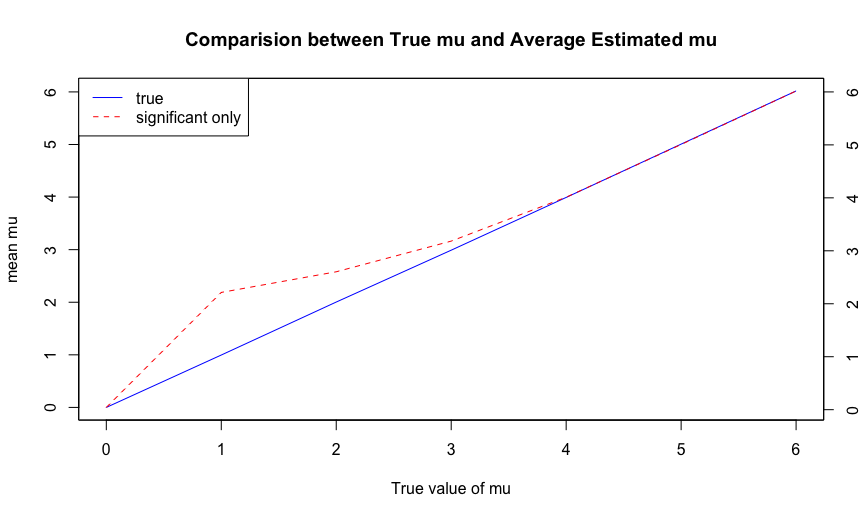
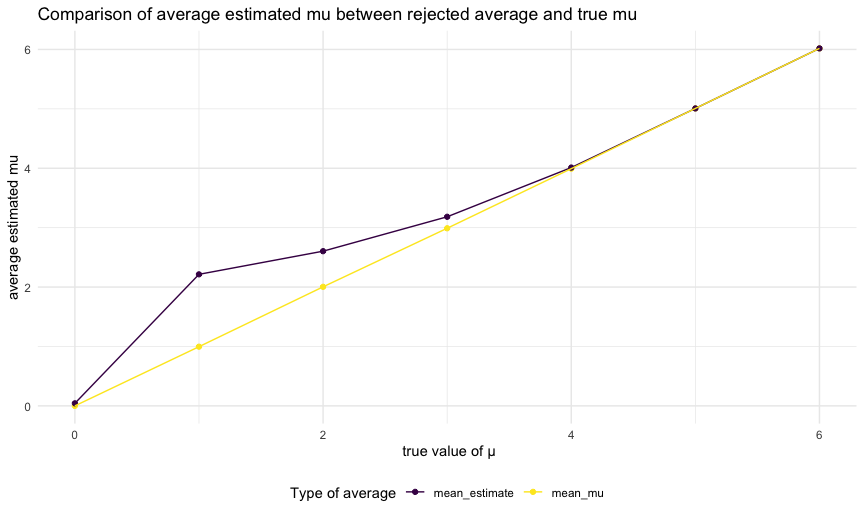
comment

diff --git a/p8105_hw5_xy2476.md b/p8105_hw5_xy2476.md
@@ -1,11 +1,15 @@
 Homework 5 solutions
 ================
 Rio Yan
-2020-11-17
+2020-11-18
 
 ## Problem 1
 
-Describe the raw <data:we> have 51 cities
+**Describe the raw data:** The data included the location of the
+killing, whether an arrest was made and, in most cases, basic
+demographic information about each victim in 50 large U.S. cities. There
+was one data entered error, Tulsa\_AL, and got cleaned out during the
+cleaning process.
 
 Read in the data.
 
@@ -377,9 +381,15 @@ path_df_graph %>%
 
 <img src="p8105_hw5_xy2476_files/figure-gfm/unnamed-chunk-8-1.png" width="90%" />
 
-Comment on the differences between groups: overall the graph shows that
-experimental group has higher value than control group, both from the
-start and in the end.
+**Comment on the differences between groups:**
+
+The graph shows that the experiment group’s cluster is higher than the
+control one, indicating that the experimental group overall has higher
+values than control group. In addition, the experiment group seems to
+have a positive association between week counts and values, as the week
+progress, the higher the value the subjects have. However, the control
+group doesn’t seem to have an association between week number and their
+value.
 
 ## Problem 3
 
@@ -449,11 +459,13 @@ prop_data1 %>%
 ```
 
 <img src="p8105_hw5_xy2476_files/figure-gfm/unnamed-chunk-10-1.png" width="90%" />
-Describe the association between effect size and power:
 
-Make a second plot (or overlay on the first) the average estimate of μ̂
-only in samples for which the null was rejected on the y axis and the
-true value of μ on the x axis.
+**Describe the association between effect size and power:** The graph
+shows that as the true value of mu increases, the power of the test
+increases and eventfully reaches 1, meaning there is a positive
+association between true value of mu and the power of the test. However,
+when the true value is the same as the null(0), there is still some
+chance that the null will be rejected, this is due to randomness.
 
 ``` r
 mean_table = 
@@ -469,7 +481,10 @@ mean_table =
 plot_1 = 
   mean_table %>% 
   ggplot(aes(x = mu_list, y = mean_mu)) + 
-  geom_point() + geom_line()
+  geom_point() + geom_line() +
+  labs(title = "Association between true value of mu and average estimate of mu",
+       x = " true value of μ",
+       y = "Average estimate of mu")
 
 reject_mean = 
   reject_table %>% 
@@ -487,12 +502,14 @@ reject_mean =
 plot_2 =
   reject_mean %>% 
   ggplot(aes(x = mu_list, y = mean_estimate)) +
-  geom_point() + geom_line()
+  geom_point() + geom_line() +
+  labs(title = "Association between true value of mu and rejected average estimate of mu",
+       x = " true value of μ",
+       y = "rejected mean estimate of mu")
 
   
-#Make a plot showing the average estimate of μ̂  on the y axis and the true value of μ on the x axis. Make a second plot (or overlay on the first) the average estimate of μ̂  only in samples for which the null was rejected on the y axis and the true value of μ on the x axis. Is the sample average of μ̂  across tests for which the null is rejected approximately equal to the true value of μ? Why or why not?
-
-combine_df = 
+# combined plot 
+combine_plot = 
   left_join(mean_table, reject_mean, by = "mu_list") %>%  
   pivot_longer(
     mean_mu:mean_estimate,
@@ -500,23 +517,29 @@ combine_df =
     values_to = "average_estimated_mu"
   ) %>% 
   ggplot(aes(x = mu_list, y = average_estimated_mu, color = type))+
-  geom_point() + geom_line()
+  geom_point() + geom_line() +
+  labs(title = "Comparison of average estimated mu between rejected average and true mu ",
+       x = " true value of μ",
+       y = "average estimated mu") +
+  guides(color = guide_legend(title = "Type of average")) 
   
-
-#overlay plot_1 and plot_2
-  
-plot(mean_table, type ="l", ylab = "mean mu",
-     main = "Comparision between True mu and Average Estimated mu", xlab = "True value of mu",
-     col = "blue")
-par(new = TRUE)
-plot(reject_mean, type = "l", xaxt = "n", yaxt = "n",
-     ylab = "", xlab = "", col = "red", lty = 2)
-axis(side = 4)
-legend("topleft", c("true", "significant only"),
-       col = c("blue", "red"), lty = c(1, 2))
+combine_plot
 ```
 
 <img src="p8105_hw5_xy2476_files/figure-gfm/unnamed-chunk-11-1.png" width="90%" />
 
-Is the sample average of μ̂ across tests for which the null is rejected
-approximately equal to the true value of μ? Why or why not?
+**Comment on the overlaid plot:** From the graph, we can see that the
+sample average of mu across tests for which the null is rejected
+approximates the true value of mu as the true value of mu gets bigger.
+In this graph, the sample average of mu approximately equal to the true
+mean when the true mean is greater than 3, but is greater than the true
+mean when the true mean is less than or equal to 2.
+
+This is because when we pick samples for which the null is rejected, we
+were picking samples that are far away from the null(0), so the random
+samples from normal distribution with true mean farther from 0 were
+selected more and the mean of sample means approximates the
+corresponding true mean. One explanation for the apparent overestimated
+estimated mu when true mu = 2 could be by chance we were getting high
+numbers. Naturally, when true effect size is small, some chance that the
+average estimate will be higher than true value.
